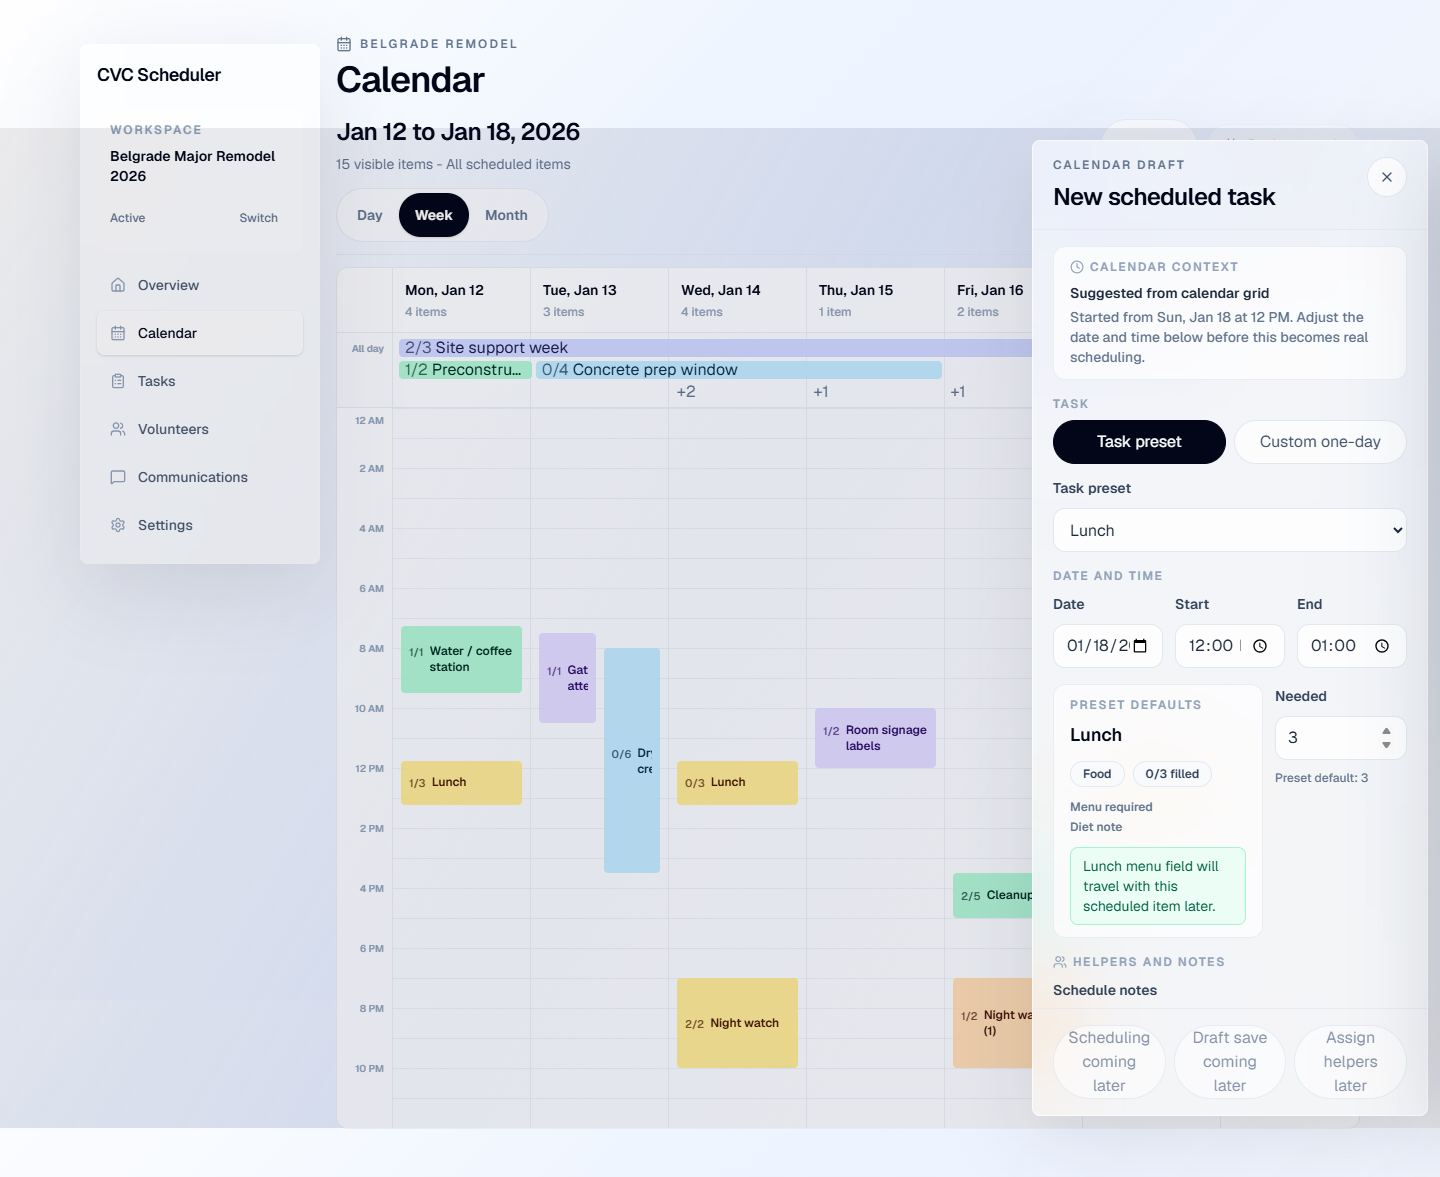
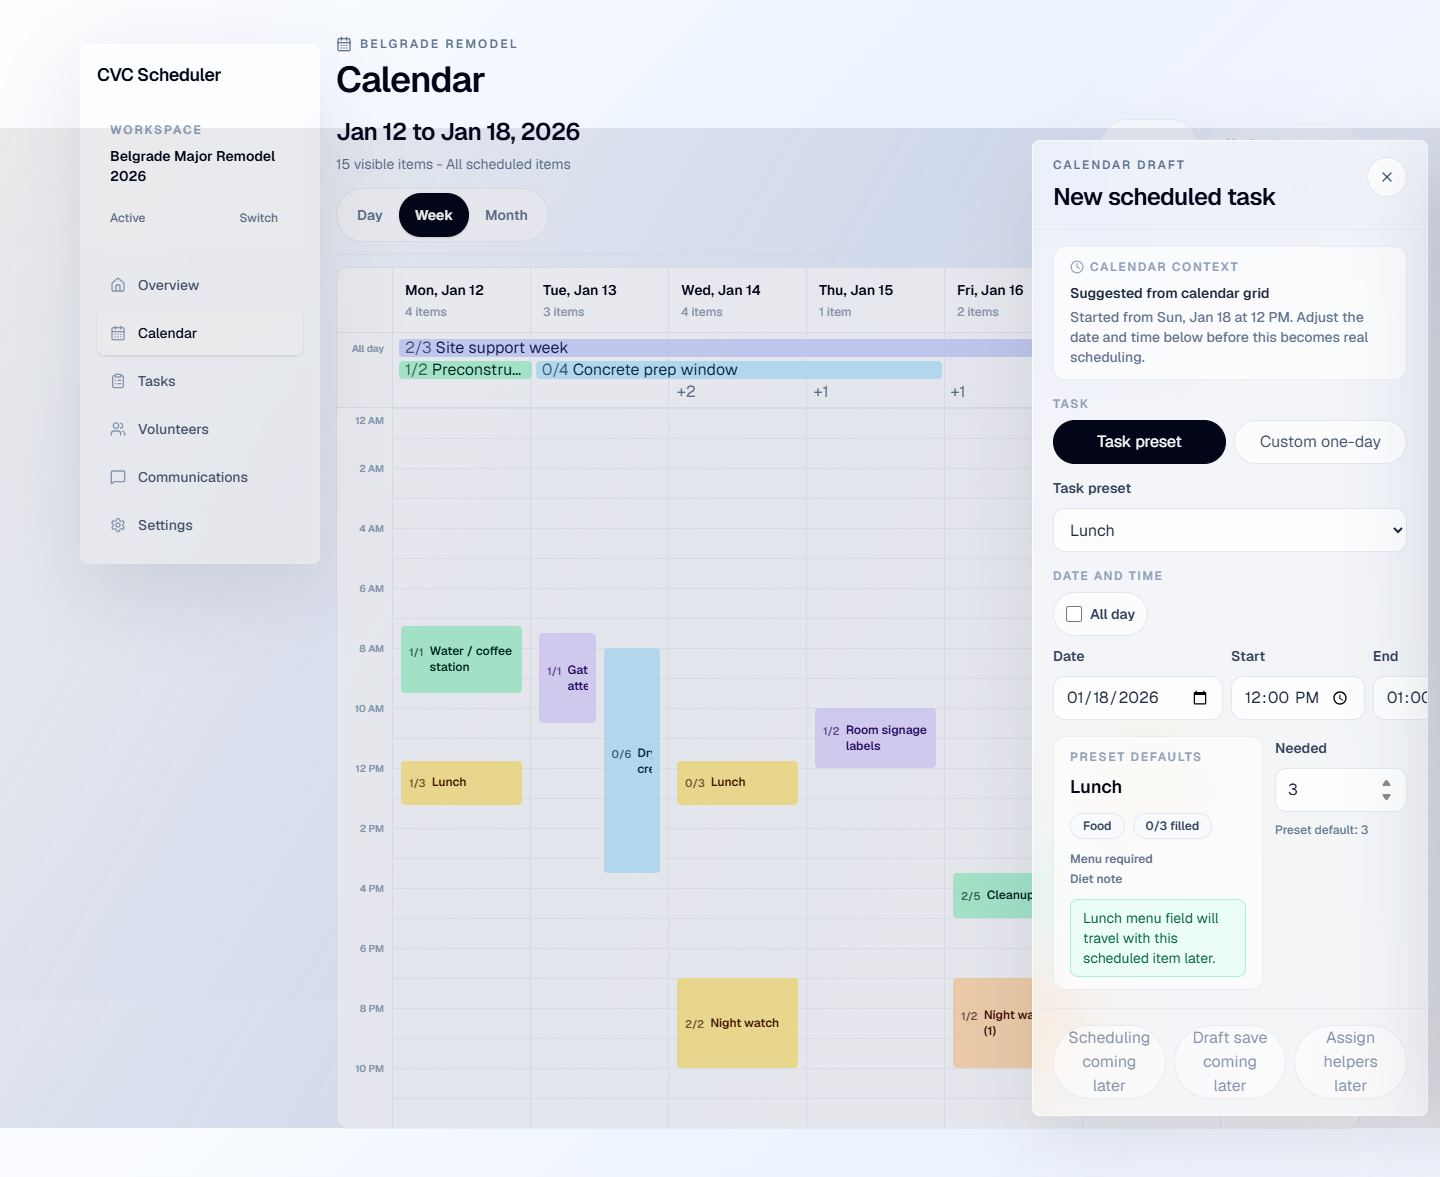
Add all-day calendar draft creation

diff --git a/cvc-scheduler/app/admin/calendar/page.tsx b/cvc-scheduler/app/admin/calendar/page.tsx
@@ -74,6 +74,7 @@ type CreationSlot = {
   date: string;
   label: string;
   contextLabel?: string;
+  allDay?: boolean;
   suggestedStartTime?: string;
   suggestedEndTime?: string;
 };
@@ -81,6 +82,8 @@ type CreationSlot = {
 type CreationDraft = {
   slot: CreationSlot;
   date: string;
+  endDate: string;
+  allDay: boolean;
   startTime: string;
   endTime: string;
   mode: CreationMode;
@@ -290,6 +293,15 @@ function formatHourLabel(hour: number) {
   }
 
   return hour > 12 ? `${hour - 12} PM` : `${hour} AM`;
+}
+
+function getCalendarAccessibleDayLabel(date: string) {
+  return new Intl.DateTimeFormat("en-US", {
+    day: "numeric",
+    month: "short",
+    timeZone: "UTC",
+    weekday: "long",
+  }).format(new Date(`${date}T00:00:00Z`));
 }
 
 function shiftCalendarAnchor(
@@ -1001,23 +1013,33 @@ function WeekGrid({
           All day
         </div>
         <div className="relative col-span-7" style={{ height: bandHeight }}>
-          <div aria-hidden="true" className="absolute inset-0 grid grid-cols-7">
+          <div className="absolute inset-0 z-0 grid grid-cols-7">
             {groups.map((group) => (
-              <div
-                className="border-r border-slate-200/80 last:border-r-0"
+              <button
+                aria-label={`Create all-day scheduled task draft for ${getCalendarAccessibleDayLabel(group.date)}`}
+                className={`border-r border-slate-200/80 transition hover:bg-slate-50/55 last:border-r-0 focus-visible:ring-inset ${calmFocusRing}`}
                 key={group.date}
+                onClick={() =>
+                  onCreateFromSlot({
+                    allDay: true,
+                    date: group.date,
+                    label: `${group.dayLabel} all day`,
+                    contextLabel: "Suggested from all-day band",
+                  })
+                }
+                type="button"
               />
             ))}
           </div>
           <div
-            className="relative z-10 grid h-full grid-cols-7 gap-x-1 gap-y-1 p-1.5"
+            className="pointer-events-none relative z-10 grid h-full grid-cols-7 gap-x-1 gap-y-1 p-1.5"
             style={{ gridTemplateRows: `repeat(${bandRowCount}, minmax(0, 1fr))` }}
           >
             {visibleBandItems.map(({ endIndex, item, lane, startIndex }) => (
               <button
                 aria-label={getWeekBandItemAccessibleLabel(item)}
                 className={[
-                  `flex min-w-0 items-center gap-1 overflow-hidden rounded px-1.5 text-left text-[10px] font-semibold leading-4 transition ${calmFocusRing}`,
+                  `pointer-events-auto flex min-w-0 items-center gap-1 overflow-hidden rounded px-1.5 text-left text-[10px] font-semibold leading-4 transition ${calmFocusRing}`,
                   getCalendarEventStyle(item),
                   selectedId === item.id
                     ? "ring-2 ring-slate-900/30 ring-offset-1"
@@ -1043,7 +1065,7 @@ function WeekGrid({
               count > 0 ? (
                 <button
                   aria-label={`Switch to Day view for ${groups[dayIndex]?.dayLabel} to show ${count} more all-day item${count === 1 ? "" : "s"}`}
-                  className={`self-center justify-self-start px-1 text-[10px] font-semibold text-slate-500 transition hover:text-slate-950 ${calmFocusRing}`}
+                  className={`pointer-events-auto self-center justify-self-start px-1 text-[10px] font-semibold text-slate-500 transition hover:text-slate-950 ${calmFocusRing}`}
                   key={groups[dayIndex]?.date}
                   onClick={() => onFocusDate(groups[dayIndex]?.date ?? referenceDate)}
                   style={{
@@ -1654,8 +1676,7 @@ function CreatePanelContent({
             {creationDraft.slot.contextLabel ?? "Suggested from calendar"}
           </p>
           <p className="mt-1 text-sm font-medium leading-5 text-slate-500">
-            Started from {creationDraft.slot.label}. Adjust the date and time below before this
-            becomes real scheduling.
+            Started from {creationDraft.slot.label}. Adjust the {creationDraft.allDay ? "date range" : "date and time"} below before this becomes real scheduling.
           </p>
         </section>
 
@@ -1750,34 +1771,102 @@ function CreatePanelContent({
           <p className="text-xs font-semibold uppercase tracking-[0.14em] text-slate-400">
             Date and time
           </p>
-          <div className="mt-2 grid gap-3 sm:grid-cols-3">
-            <label className="block">
+          <label className="mt-2 inline-flex min-h-11 items-center gap-2 rounded-full border border-slate-200 bg-white/72 px-3 text-sm font-semibold text-slate-700">
+            <input
+              checked={creationDraft.allDay}
+              className="h-4 w-4 accent-slate-950 focus-visible:outline-none focus-visible:ring-2 focus-visible:ring-slate-900/30 focus-visible:ring-offset-2"
+              onChange={(event) =>
+                onUpdate(
+                  event.target.checked
+                    ? {
+                        allDay: true,
+                        endDate:
+                          creationDraft.endDate < creationDraft.date
+                            ? creationDraft.date
+                            : creationDraft.endDate,
+                        endTime: "",
+                        startTime: "",
+                      }
+                    : {
+                        allDay: false,
+                        endDate: creationDraft.date,
+                        endTime:
+                          creationDraft.slot.suggestedEndTime ??
+                          suggestedSlots.morning.end,
+                        startTime:
+                          creationDraft.slot.suggestedStartTime ??
+                          suggestedSlots.morning.start,
+                      },
+                )
+              }
+              type="checkbox"
+            />
+            All day
+          </label>
+          <div className="mt-2 grid gap-3 sm:grid-cols-2">
+            <label
+              className={[
+                "block min-w-0",
+                creationDraft.allDay ? "" : "sm:col-span-2",
+              ].join(" ")}
+            >
               <span className="text-sm font-semibold text-slate-700">Date</span>
               <input
                 className="mt-2 min-h-11 w-full rounded-xl border border-slate-200 bg-white/80 px-3 text-sm font-semibold text-slate-800 outline-none focus:ring-2 focus:ring-slate-900/30 focus:ring-offset-1"
-                onChange={(event) => onUpdate({ date: event.target.value })}
+                onChange={(event) => {
+                  const date = event.target.value;
+
+                  onUpdate({
+                    date,
+                    ...(creationDraft.allDay && creationDraft.endDate < date
+                      ? { endDate: date }
+                      : {}),
+                  });
+                }}
                 type="date"
                 value={creationDraft.date}
               />
             </label>
-            <label className="block">
-              <span className="text-sm font-semibold text-slate-700">Start</span>
-              <input
-                className="mt-2 min-h-11 w-full rounded-xl border border-slate-200 bg-white/80 px-3 text-sm font-semibold text-slate-800 outline-none focus:ring-2 focus:ring-slate-900/30 focus:ring-offset-1"
-                onChange={(event) => onUpdate({ startTime: event.target.value })}
-                type="time"
-                value={creationDraft.startTime}
-              />
-            </label>
-            <label className="block">
-              <span className="text-sm font-semibold text-slate-700">End</span>
-              <input
-                className="mt-2 min-h-11 w-full rounded-xl border border-slate-200 bg-white/80 px-3 text-sm font-semibold text-slate-800 outline-none focus:ring-2 focus:ring-slate-900/30 focus:ring-offset-1"
-                onChange={(event) => onUpdate({ endTime: event.target.value })}
-                type="time"
-                value={creationDraft.endTime}
-              />
-            </label>
+            {creationDraft.allDay ? (
+              <label className="block">
+                <span className="text-sm font-semibold text-slate-700">End date</span>
+                <input
+                  className="mt-2 min-h-11 w-full rounded-xl border border-slate-200 bg-white/80 px-3 text-sm font-semibold text-slate-800 outline-none focus:ring-2 focus:ring-slate-900/30 focus:ring-offset-1"
+                  min={creationDraft.date}
+                  onChange={(event) =>
+                    onUpdate({
+                      endDate:
+                        event.target.value < creationDraft.date
+                          ? creationDraft.date
+                          : event.target.value,
+                    })
+                  }
+                  type="date"
+                  value={creationDraft.endDate}
+                />
+              </label>
+            ) : (
+              <>
+                <label className="block">
+                  <span className="text-sm font-semibold text-slate-700">Start</span>
+                  <input
+                    className="mt-2 min-h-11 w-full rounded-xl border border-slate-200 bg-white/80 px-3 text-sm font-semibold text-slate-800 outline-none focus:ring-2 focus:ring-slate-900/30 focus:ring-offset-1"
+                    onChange={(event) => onUpdate({ startTime: event.target.value })}
+                    type="time"
+                    value={creationDraft.startTime}
+                  />
+                </label>
+                <label className="block">
+                  <span className="text-sm font-semibold text-slate-700">End</span>
+                  <input
+                    className="mt-2 min-h-11 w-full rounded-xl border border-slate-200 bg-white/80 px-3 text-sm font-semibold text-slate-800 outline-none focus:ring-2 focus:ring-slate-900/30 focus:ring-offset-1"
+                    onChange={(event) => onUpdate({ endTime: event.target.value })}
+                    type="time"
+                    value={creationDraft.endTime}
+                  />
+                </label>
+              </>
+            )}
           </div>
         </section>
 
@@ -2277,8 +2366,14 @@ export default function AdminCalendarPage() {
     setCreationDraft({
       slot,
       date: slot.date,
-      startTime: slot.suggestedStartTime ?? suggestedSlots.morning.start,
-      endTime: slot.suggestedEndTime ?? suggestedSlots.morning.end,
+      endDate: slot.date,
+      allDay: slot.allDay ?? false,
+      startTime: slot.allDay
+        ? ""
+        : slot.suggestedStartTime ?? suggestedSlots.morning.start,
+      endTime: slot.allDay
+        ? ""
+        : slot.suggestedEndTime ?? suggestedSlots.morning.end,
       mode: "preset",
       presetId: defaultPreset?.id ?? "",
       neededCount: defaultPreset?.neededCount ?? 2,

diff --git a/cvc-scheduler/docs/PROJECT_HISTORY.md b/cvc-scheduler/docs/PROJECT_HISTORY.md
@@ -1888,6 +1888,44 @@ Limitations:
 Next recommended step:
 - 09.33 Calendar all-day creation interaction foundation.
 
+## Iteration 09.33 — Calendar All-Day Creation Interaction Foundation
+
+Summary:
+- Added one quiet background creation target per desktop Week all-day day column without adding visible repeated CTA text.
+- Kept all-day background targets, existing event bars, and `+N` overflow as stable sibling layers; foreground controls remain independently clickable and keyboard accessible.
+- Extended the local creation slot/draft model with an all-day flag and editable end date while keeping all behavior preview-only.
+- Added a compact All day checkbox in the existing Date and time section. All-day band clicks default it on; timed Week, Day, and Month creation defaults it off.
+- All-day drafts hide start/end time fields, use date-range context language, and clamp End date so it cannot precede Date. Switching All day off restores the clicked timed suggestion or 09:00-10:00 defaults.
+- Preserved existing all-day/multi-day inspection, overflow-to-Day behavior, timed event placement, deterministic colors, filters, overlay exclusivity, Escape dismissal, and trigger-focus restoration.
+- Refreshed the existing desktop and mobile Calendar creation-open previews; the screenshot script and capture selectors did not change.
+
+Changed files:
+- `app/admin/calendar/page.tsx`
+- `docs/CURRENT_STATE.md`
+- `docs/PROJECT_HISTORY.md`
+- `docs/ROADMAP.md`
+- `docs/previews/latest/calendar-create-open.jpg`
+- `docs/previews/latest/mobile-calendar-create-open.jpg`
+
+Verification:
+- `npm.cmd run lint` passed.
+- `npm.cmd run build` passed.
+- `npm.cmd run preview` started the production preview successfully.
+- `npm.cmd run preview:screenshots` passed against the production preview.
+- Production-browser QA opened the Sunday all-day target, confirmed All day was checked with Date/End date and no time inputs, toggled back to 09:00-10:00, and confirmed initial close-button focus plus Escape restoration to the exact day launcher.
+- Timed regression checks confirmed a pointer-selected Week one-hour draft and an exact 09:00-10:00 Day-hour draft with All day off.
+- Existing Site support inspection still showed its multi-day schedule; Wednesday `+2` still focused Day view with all four spanning items; Filters still received initial focus.
+- Mobile QA at 390px confirmed existing all-day items in Day view, the creation-sheet All day toggle, hidden time fields when enabled, no horizontal overflow, and no console, page, or hydration errors.
+
+Limitations:
+- All-day and multi-day creation remains a local draft preview; no Calendar item is saved or rendered from the draft.
+- Mobile intentionally has no new all-day creation launcher; its existing timed/day creation paths can toggle All day inside the sheet.
+- End-date handling only prevents an end before the start date; production-grade validation, persistence, and scheduling rules remain future work.
+- No Supabase, auth, URL date routing, drag/drop, resizing, assignment workflow, scheduling engine, calendar library, or Calendar mutations were added.
+
+Next recommended step:
+- 09.34 Calendar draft validation and creation-surface polish.
+
 ## Documentation Maintenance Rules
 
 - Every future Codex iteration should update `PROJECT_HISTORY.md` with a concise entry.

diff --git a/cvc-scheduler/docs/CURRENT_STATE.md b/cvc-scheduler/docs/CURRENT_STATE.md
@@ -231,6 +231,8 @@ Upcoming UI direction:
 - Compact Week, Day, mobile Week, and Month events now use a deterministic restrained palette derived from stable task/item identity rather than broad category alone. Count-first typography is smaller and consistent across views, and bars continue to show only task name and volunteer fraction/count where space permits; richer details remain in the inspector.
 - The all-day band recognizes explicit `allDay` items, `All day` time windows, or untimed items; supports optional `endDate` multi-day spans; shows up to two compact lanes; and provides a quiet per-day `+N` overflow action that focuses the existing Day view. A controlled mock validation set now covers Site support week, Preconstruction prep, Concrete prep window, Materials receiving, and Safety coverage.
 - All-day span placement is calculated from the actual Monday week boundary. The validation set produces a six-day bar, a three-day bar, a single-day bar, and deterministic Wednesday `+2` plus Thursday/Friday `+1` overflow. Focused Day view exposes every item spanning that date in a compact all-day section above the timed rows.
+- Each desktop Week all-day day column now has a quiet full-background creation target behind the event and overflow controls. It opens the existing preview-only creator with All day enabled for that date; foreground bars and `+N` remain separate sibling controls.
+- Calendar creation drafts can now switch locally between timed and all-day modes. All-day mode hides start/end times, keeps Date editable, exposes an optional End date clamped to Date, and uses date-range context language. Switching back restores the clicked timed suggestion or the calm 09:00-10:00 default.
 - A future Timeline / Work Plan view may be useful for dense construction or multi-day work, with date/time on the x-axis and tasks, groups, or days on the y-axis. That remains a later companion view and does not replace the standard Week calendar.
 - Empty-slot creation now treats the clicked/tapped area as suggested calendar context rather than a fixed time window. Day hour rows and Week grid clicks seed specific editable start/end defaults, day-only clicks seed editable date/time defaults, and the flow remains preview-only.
 - A clean production build/preview QA pass confirmed that `/admin/calendar` hydrates without warnings. The Week background click surfaces and event buttons render as stable siblings in the initial DOM; the earlier mismatch did not reproduce after rebuilding and restarting the preview.
@@ -297,7 +299,7 @@ Latest generated screenshots are written to `docs/previews/latest/`. The folder 
 - Calendar creation detail refinement is local UI-only. Editable date/start/end fields, helper count, preset choice, one-off task fields, and notes update only the temporary creation draft; they do not create, save, persist, or mutate Calendar data.
 - Calendar Day and Week timeline placement remains approximate. Week blocks now use start/end times for proportional visual height and deterministic overlap lanes, but this is still a visual-only foundation without editing, drag/drop, resizing, advanced collision rules, or production scheduling layout logic. Compact event blocks remain intentionally minimal in the grid.
 - The seven-column all-day/multi-day band remains desktop-only. Mobile Week represents the same controlled validation items in its compact day groups, while Day view uses a compact all-day section on both desktop and mobile.
-- The five all-day/multi-day examples are explicitly mock validation data, not production project truth. Empty all-day-band creation is not implemented; the existing preview-only creator still starts from timed Week/Day targets or Month day cells.
+- The five all-day/multi-day examples are explicitly mock validation data, not production project truth. All-day creation is preview-only and does not add or mutate Calendar items. Mobile exposes the All day toggle in its creation sheet but intentionally has no new all-day-band launcher.
 - Calendar keyboard behavior currently follows normal document tab order. It does not yet implement specialized arrow-key grid traversal or a full modal focus trap; the current dialogs provide initial focus, Escape dismissal, and trigger-focus restoration.
 - Month intentionally shows one directly selectable event chip per date and summarizes additional items with a quiet count; the full item set remains visible in Day and Week views.
 - `/admin/login` and `/admin/onboarding` still use their simpler non-workspace shells; the checked workspace admin routes use the shared admin shell.
@@ -327,4 +329,4 @@ Latest generated screenshots are written to `docs/previews/latest/`. The folder 
 
 ## 9. Next Recommended Step
 
-09.33 Calendar all-day creation interaction foundation.
+09.34 Calendar draft validation and creation-surface polish.

diff --git a/cvc-scheduler/docs/ROADMAP.md b/cvc-scheduler/docs/ROADMAP.md
@@ -70,7 +70,8 @@ Rough phases:
 - 09.30 Calendar Week Density + All-Day Band Foundation. Completed.
 - 09.31 Calendar keyboard and screen-reader interaction QA. Completed.
 - 09.32 Calendar all-day/multi-day mock-data validation and overflow QA. Completed.
-- 09.33 Calendar all-day creation interaction foundation. Next recommended step.
+- 09.33 Calendar all-day creation interaction foundation. Completed.
+- 09.34 Calendar draft validation and creation-surface polish. Next recommended step.
 
 ## 4. Mid-Term Roadmap
 
@@ -120,6 +121,7 @@ Rough phases:
 - 09.31 Calendar keyboard and screen-reader interaction QA.
 - 09.32 Calendar all-day/multi-day mock-data validation and overflow QA.
 - 09.33 Calendar all-day creation interaction foundation.
+- 09.34 Calendar draft validation and creation-surface polish.
 - 09 Tasks + Calendar model.
 - 10 Public volunteer portal.
 